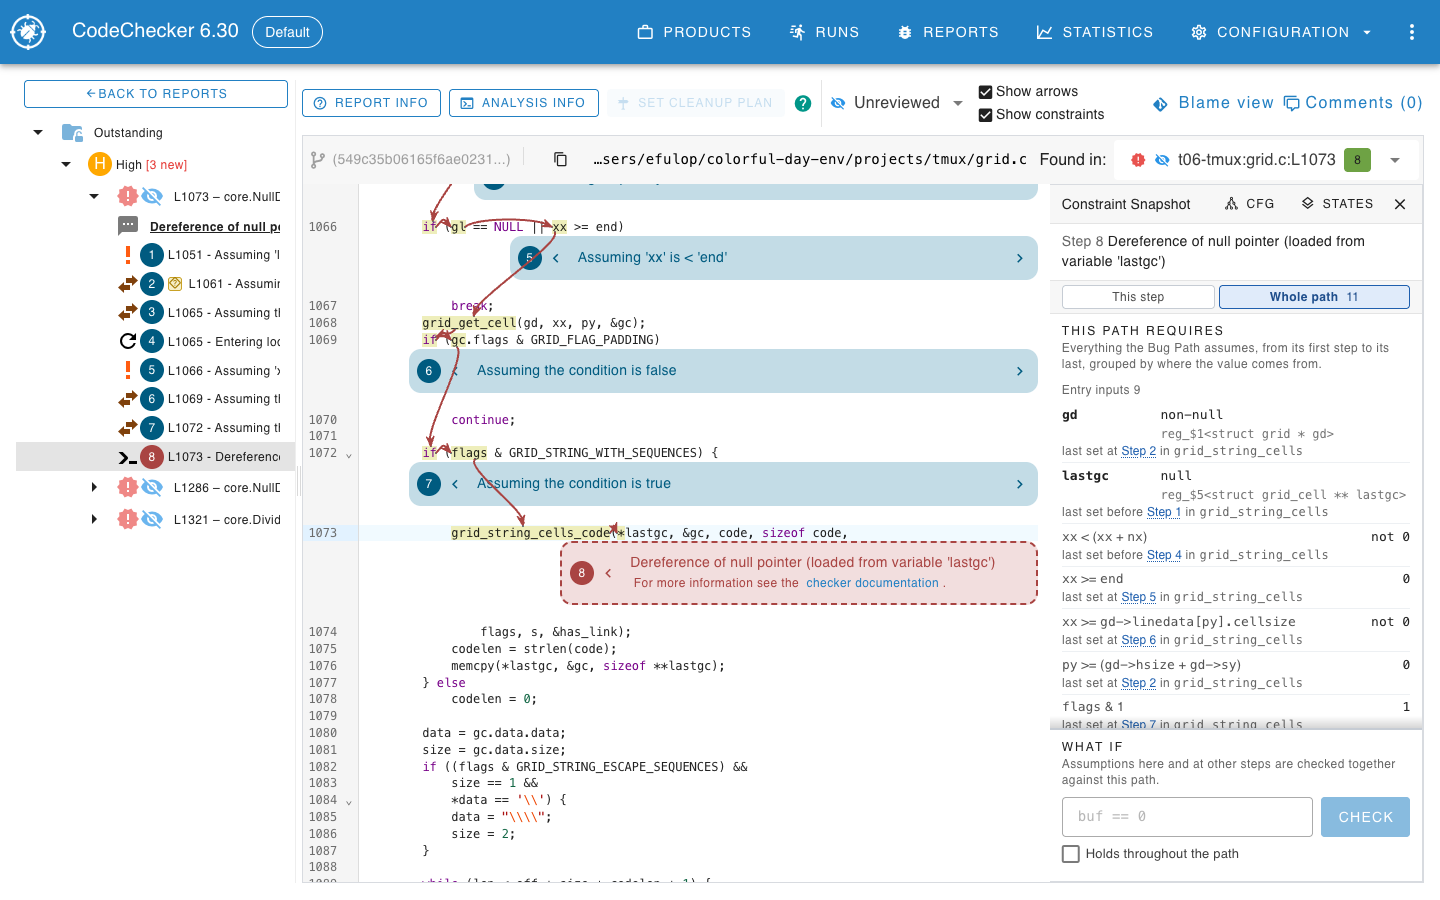
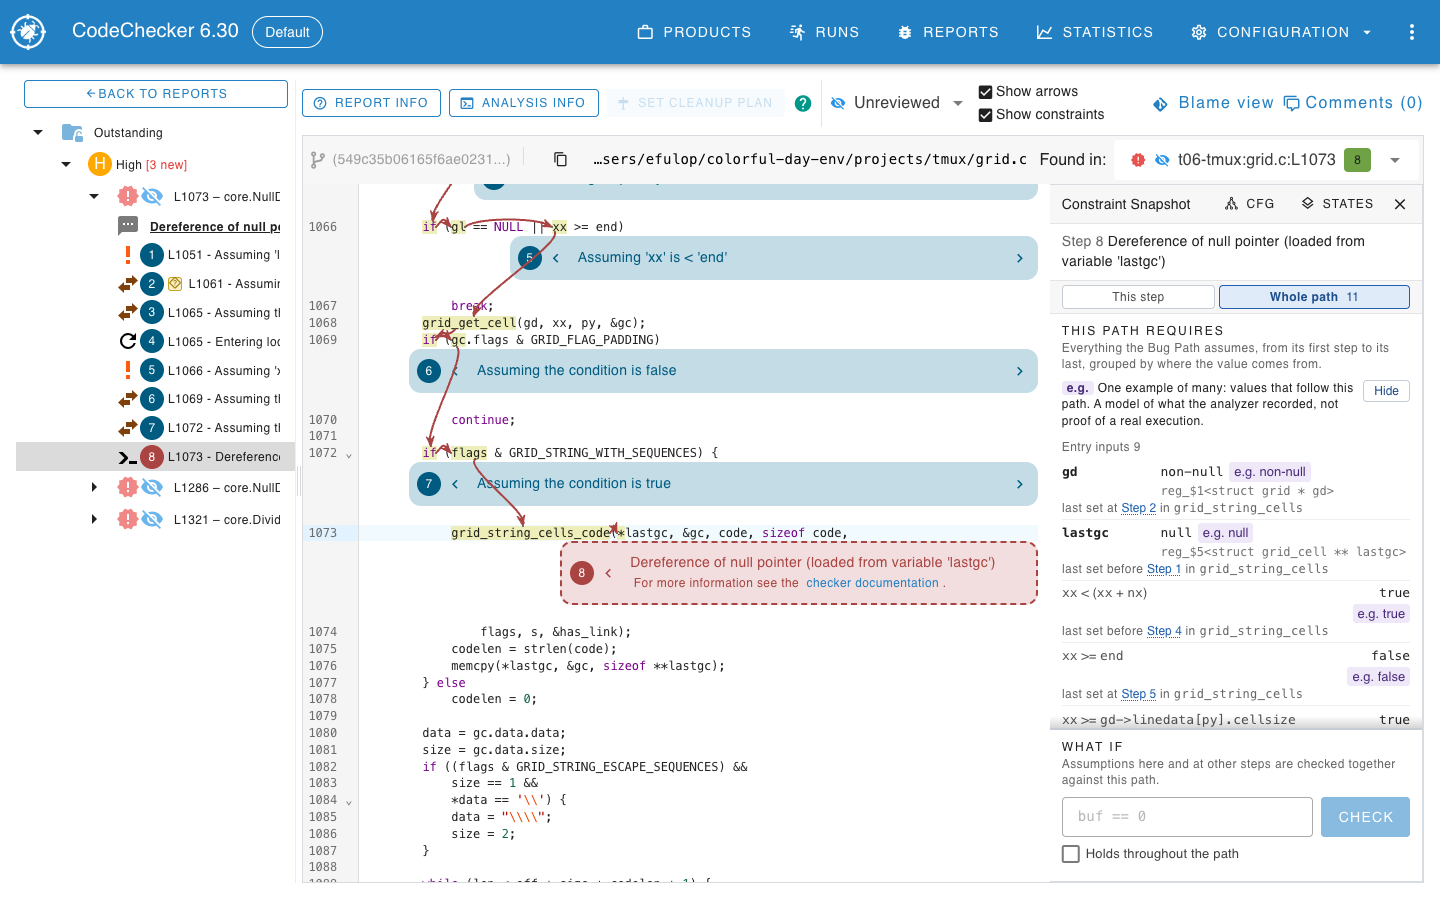
[docs] Describe the example of a path and comparisons read as true or false

Changed region(s): [[0.7188, 0.4044, 0.9688, 0.8089], [0.9375, 0.6533, 0.9688, 0.7156], [0.9375, 0.7467, 0.9688, 0.7778]]

diff --git a/docs/web/constraints.md b/docs/web/constraints.md
@@ -170,6 +170,8 @@ An integer range reads the way a person would say it, in the snapshot, the path 
 * A range that excludes exactly one value reads "not N", so `[-2147483648, -1] [1, 2147483647]` of an `int` reads "not 0".
 * A range of one value reads as the value, so `[1, 1]` reads "1".
 * A range that runs from a value to the largest value of the type reads "at least N", and one that runs from the smallest value of the type to a value reads "at most N".
+* A comparison, such as `xx >= end`, reads "false" when its range is `[0, 0]` and "true" when its range leaves 0 out, rather than as the number the analyzer keeps for it.
+  Only a comparison at the top of the expression counts, so `(a < 5) + b` reads as a number.
 
 The bounds of the type come from the type Clang records for the symbol, which is the canonical type, so a `size_t` is an `unsigned long` and a field of a replaced value has its own type.
 For a trace without it, the type at the start of the symbol is read instead, such as `int` in `reg_$1<int a>`.
@@ -197,7 +199,28 @@ Some assumptions have a node of their own, between two steps; the line then says
 When the step is an assumption the bug path has no event for, the line says "assumed with no event at" and the link is to that control step.
 A path with no constraints shows "This path has no constraints on it."
 
-![This path requires, on a report of tmux](images/constraints_requires.png)
+#### An example
+
+**Show an example** above the rows asks the server for one example of the path: one value for each row, which together follow the bug path.
+The value appears beside the row's range, after "e.g.", or under it when the panel is narrow.
+It is the value Z3 gives the row's expression in one model of the path's solver input, so `m + n` shows the solver's value of the sum, which may have wrapped around.
+A row such as `m + n` has a value, but `m` and `n` get none of their own unless the path constrains them on a row of their own, since any value of a symbol the path does not constrain would do.
+
+* A number is in the signedness of the analyzer's range for the row, so an `int` shows `-1` where an `unsigned int` would show `4294967295`.
+* A pointer reads **null** or **non-null**, since its number means nothing.
+* A comparison reads **true** or **false**.
+* An enum or a `bool` reads as its number.
+
+The example is one of many, and the panel says so.
+It is a model of what the analyzer recorded, not proof that a real execution can follow the path, for the same reasons that a Feasible verdict is not.
+It respects the constraints in the **Checked together** list of [What if](#what-if), whether they hold at one step or throughout, and it disappears when that list changes, since it no longer matches it.
+**Hide** removes it.
+It is made from the same solver call as the verdict, so it never changes the verdict, and it is never stored, not in the database and not in the browser.
+
+There is no example when the path is not feasible with those constraints, when the solver gives up at its time limit, or when a constraint cannot be read; the panel then says why in place of the values.
+A report without solver input offers no example and says "No example: this report has no solver input for this path. Recording it needs a Clang built with Z3."
+
+![This path requires, with an example, on a report of tmux](images/constraints_requires.png)
 
 ## Selecting a step
 
@@ -331,6 +354,7 @@ A baseline box appears only when the baseline is not Feasible, since then your a
   They cannot be shared or reviewed later.
 * The solver gets 2000 ms for each call.
   A check makes up to two calls and then, if the path is infeasible, searches for the first step where it dies for up to 4000 ms more, so a check can hold a server worker for up to 8 seconds.
+  Asking for an example adds no call.
 * A name is what the panel shows, so a value the panel cannot name, such as a field of a temporary or the size of memory, cannot be constrained either.
 * A function whose name has template arguments, or a lambda, cannot be written before `::`, so its variables can only be named alone.
   The list leaves such names out.
